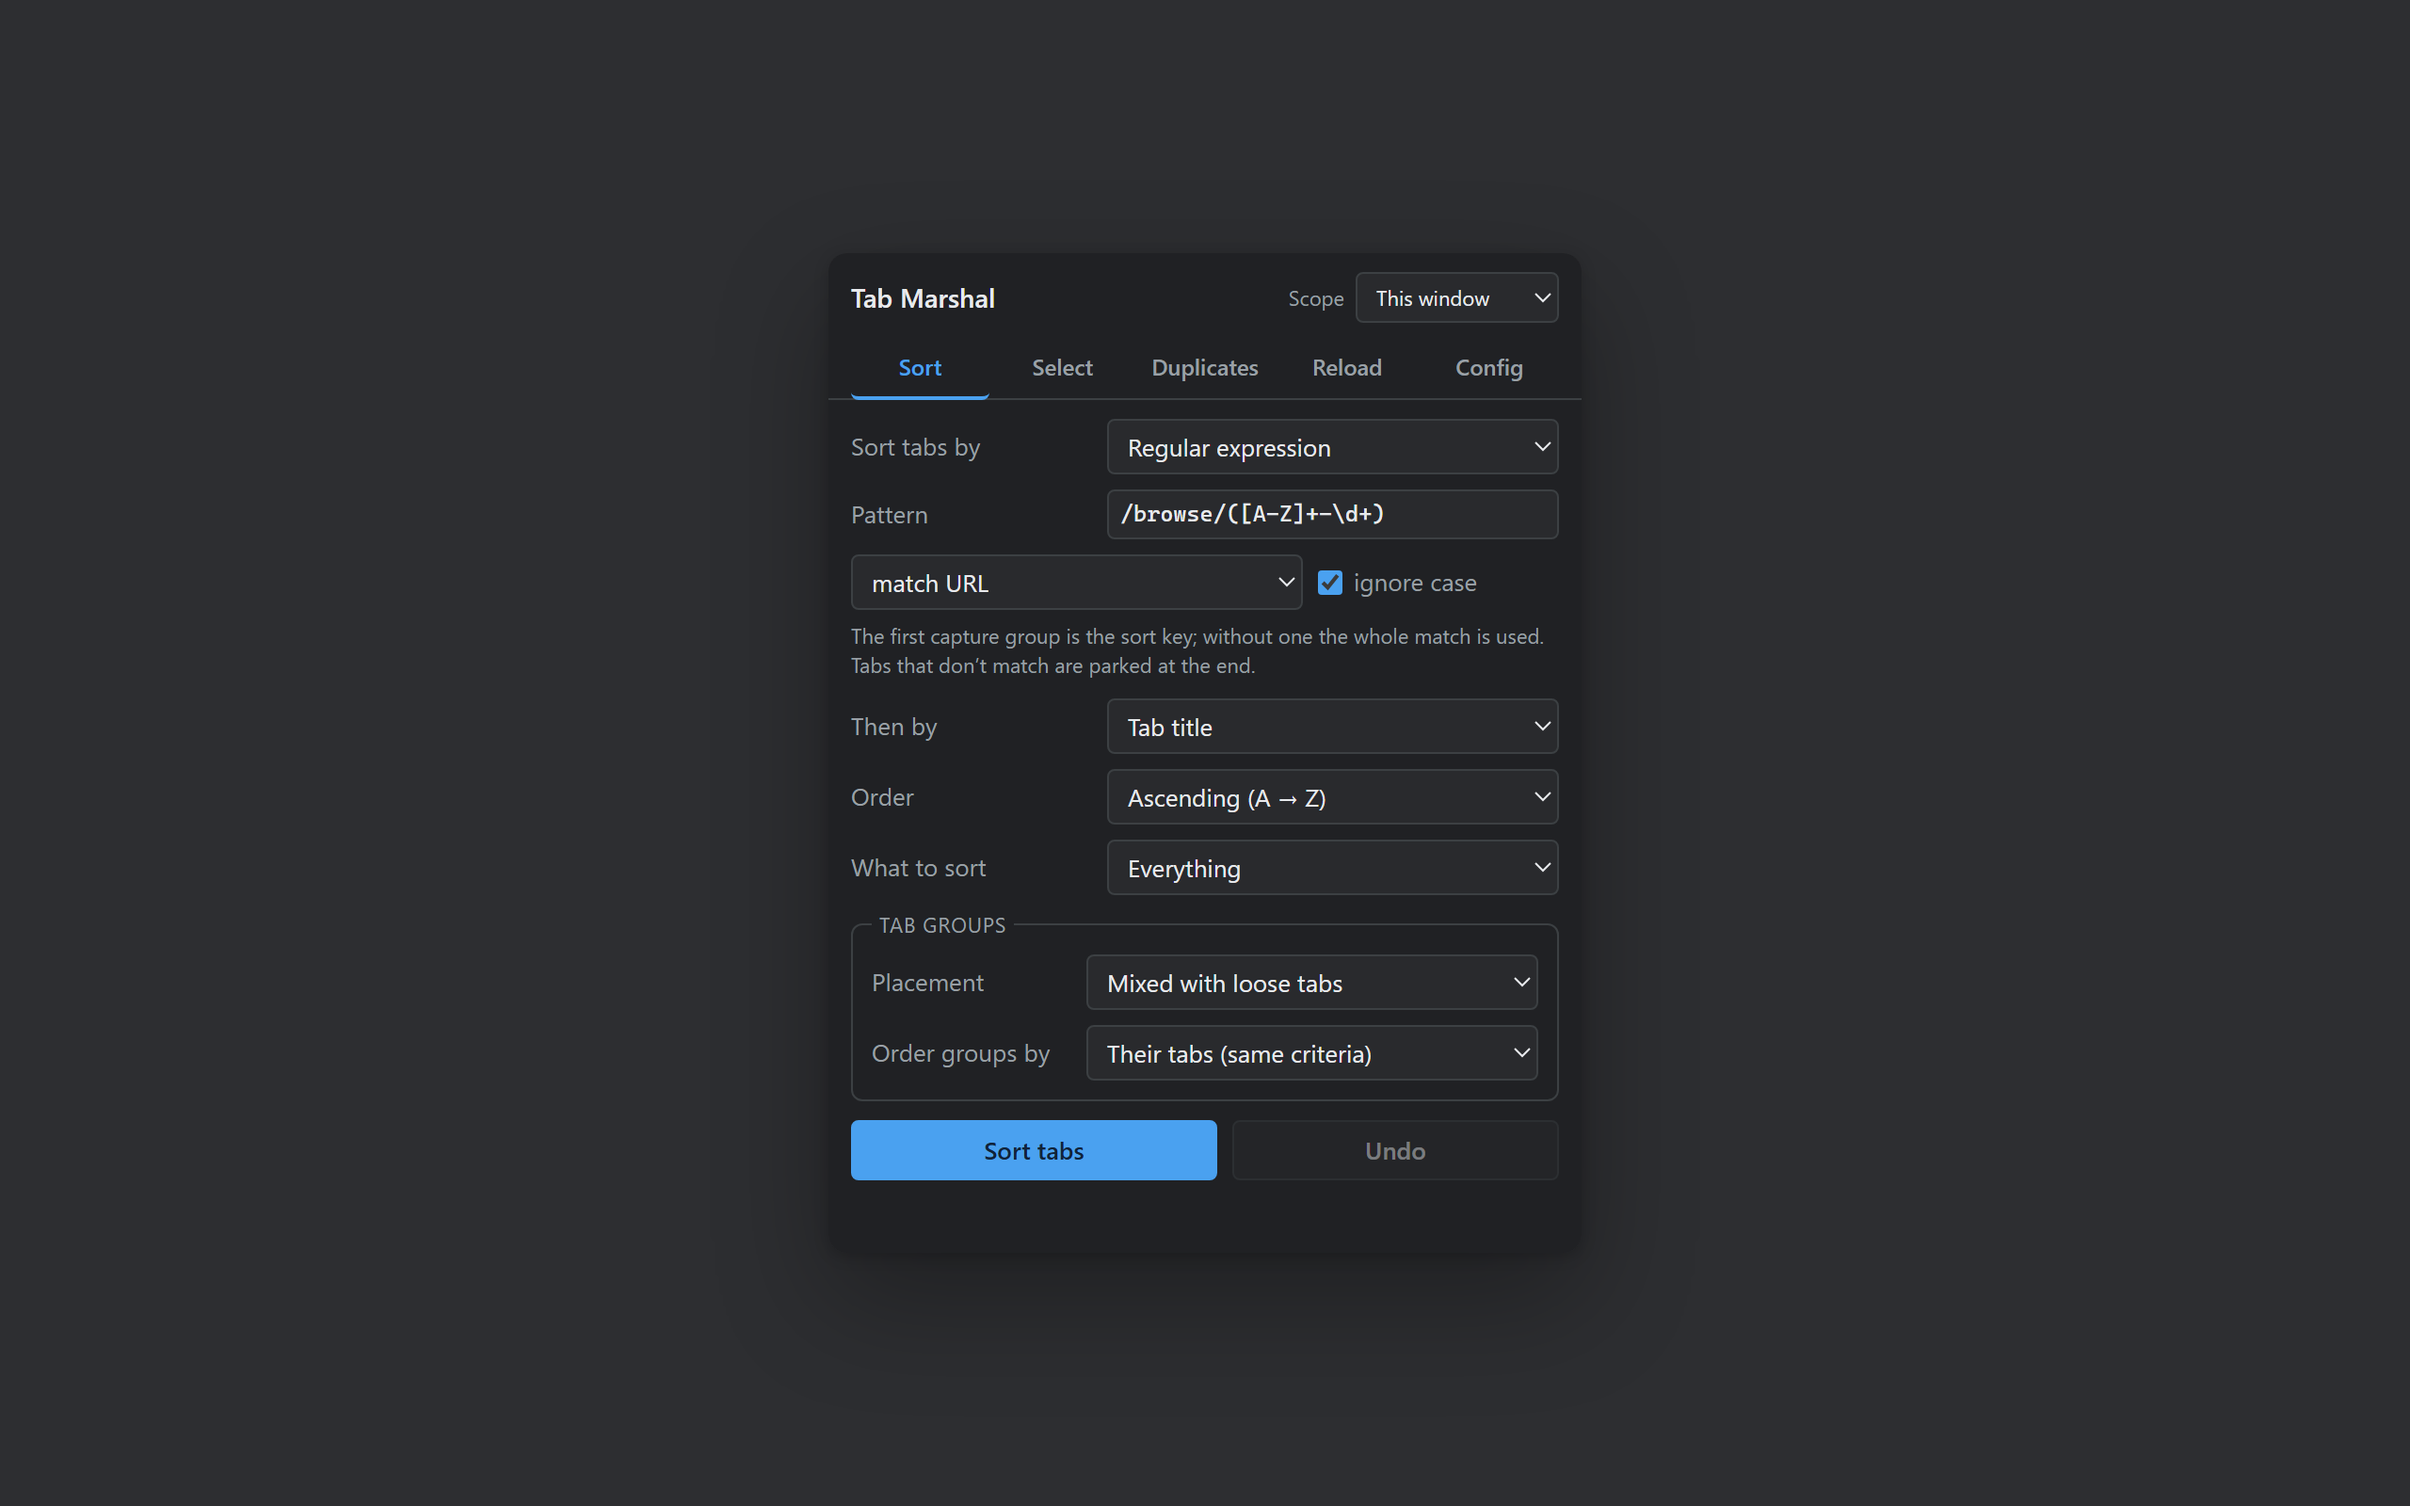
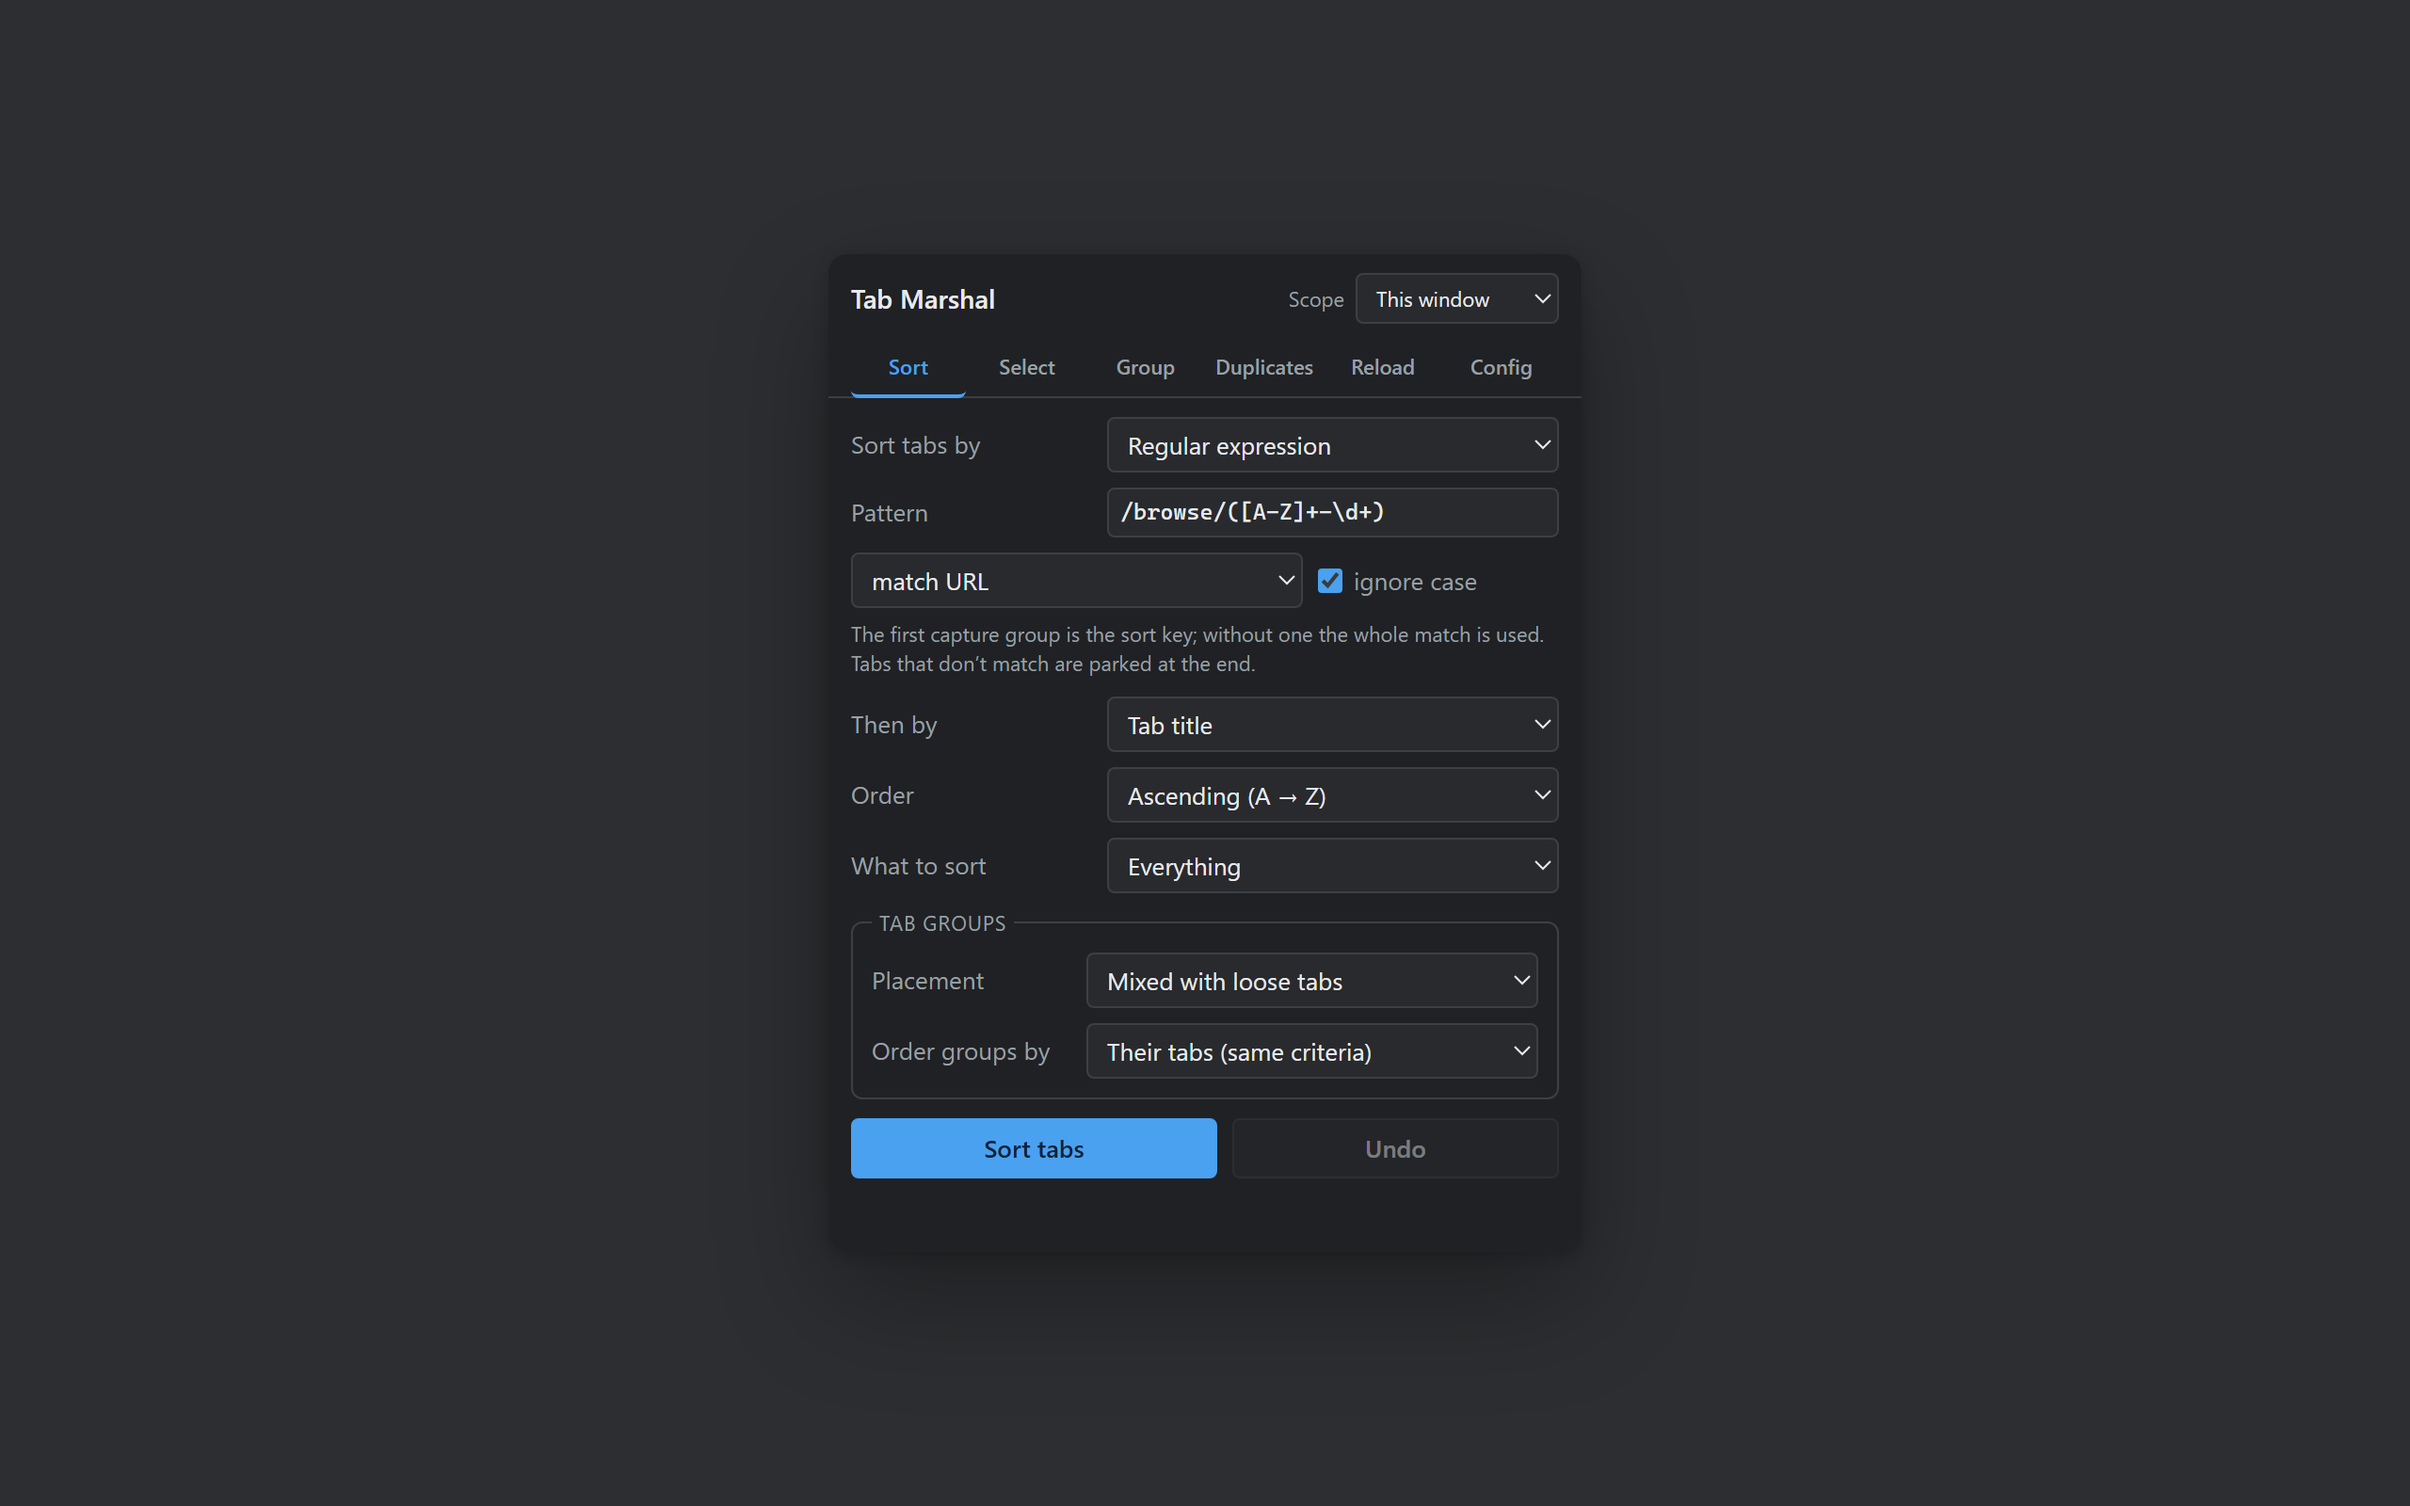
Unclip the six-tab nav, and recapture the screenshots for 1.4.0
Auto-group made the nav six tabs wide, leaving about 61px each. At 12px
"Duplicates" measures 57px against a 53px content box, so it spilled
into the padding and sat flush against its neighbours. scrollWidth does
not catch that — the overflow is visible rather than clipped, so the
element reports no overflow at all — which is why it took measuring the
rendered text against the content box to see it. The nav now runs a step
smaller than the body text, leaving 4.9px of slack on the tightest tab.

Screenshots are recaptured against 1.4.0 and renumbered around the new
3-group.png, which the listing had flagged as outstanding. All nine are
2560x1600, and every panel still fits the 600px popup cap: 406, 369,
580, 517, 299, 580.

diff --git a/src/popup.css b/src/popup.css
@@ -346,9 +346,14 @@ body {
   border: 0;
   background: none;
   color: var(--muted);
-  padding: 7px 4px;
+  /*
+   * Six tabs in a 400px popup leaves ~61px each. "Duplicates" needs 57px at
+   * 12px, which spills into the padding and leaves the labels touching, so the
+   * nav runs a step smaller than the body text.
+   */
+  padding: 7px 2px;
   font: inherit;
-  font-size: 12px;
+  font-size: 11px;
   font-weight: 600;
   cursor: pointer;
   border-bottom: 2px solid transparent;

diff --git a/store/amo-listing.md b/store/amo-listing.md
@@ -130,10 +130,8 @@ Ready in `store/screenshots/`, 2560x1600 (1280x800 at 2x), upload in this order:
 | `8-theme-latte.png` | Catppuccin Latte |
 | `9-theme-nord.png` | Nord |
 
-They are generated from the real popup against a fixed sample session, not mocked up.
-**The 1.4.0 renumbering above (adding `3-group.png`) is not done yet** — the files in
-`store/screenshots/` still reflect 1.3.0's five panels. Recapture and renumber before submitting
-1.4.0.
+They are generated from the real popup against a fixed sample session, not mocked up, and are
+current as of 1.4.0 — all six panels, renumbered around `3-group.png`.
 
 ## Notes for the reviewer
 
